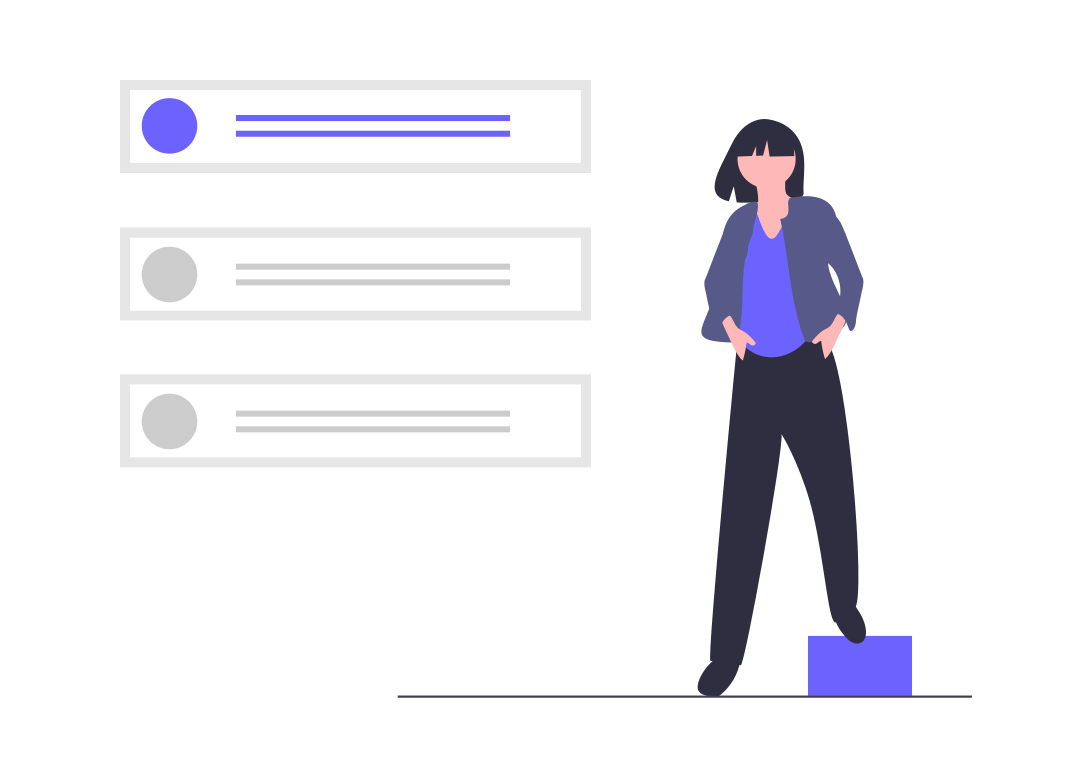
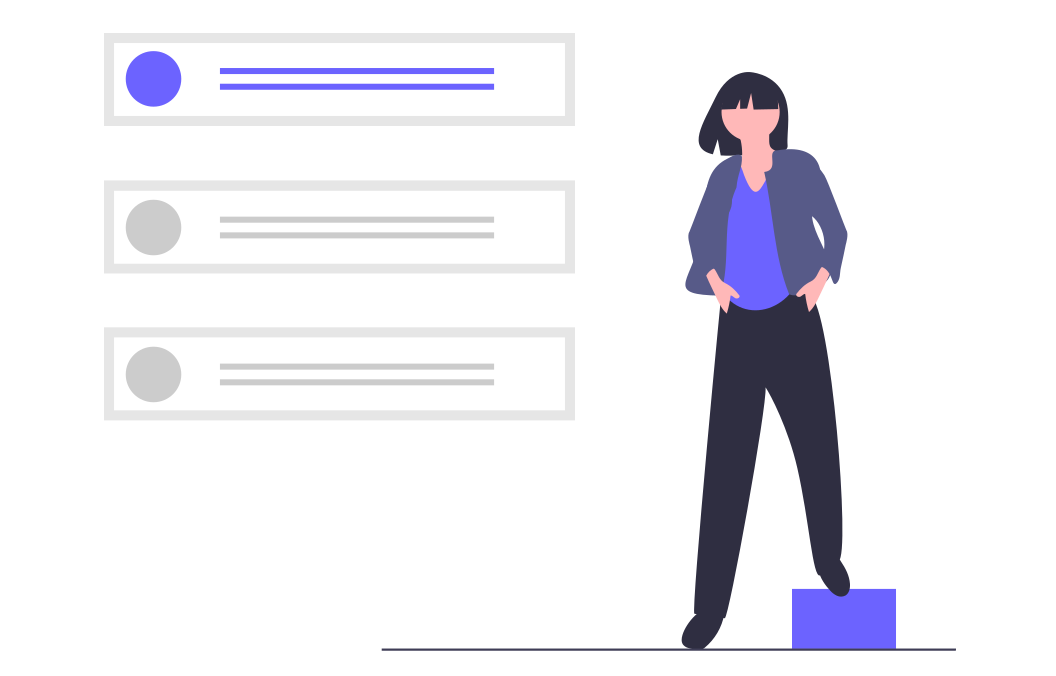
message

Changed region(s): [[0.0938, 0.0311, 0.5625, 0.4349], [0.375, 0.0932, 0.9062, 0.963], [0.0938, 0.466, 0.5625, 0.6213]]

diff --git a/jobfinding/index.html b/jobfinding/index.html
@@ -113,7 +113,7 @@
           </div>
           <div class="carousel-inner">
             <div class="carousel-item active" data-bs-interval="10000">
-              <img src="img/c1.png" class="d-block w-100" alt="...">
+              <img src="img/c1 (2).png" class="d-block w-100" alt="...">
               <div class="carousel-caption d-none d-md-block">
                 <h5>Jobs Which Suite You</h5>
                 <p>with personalised Asistance  .</p>

diff --git a/jobfinding/style.css b/jobfinding/style.css
@@ -65,6 +65,7 @@ h2{
 
 .carousel{
 width: 65vw;
+/* height:620px;  */
 }
 .carousel h5{
     margin-top: 2rem;
